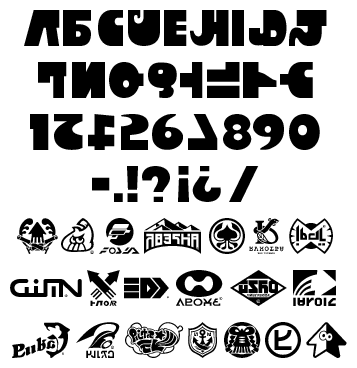
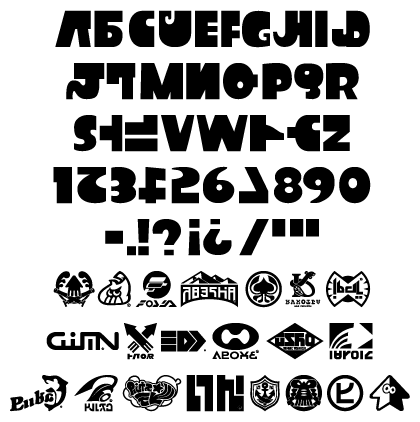
getting ready for v2.0 update

diff --git a/inkling_new.html b/inkling_new.html
@@ -114,20 +114,18 @@ $(document).ready(function(){
 
 <body>
 
-<h1>INKLING </h1><h2>VERSION 1.0</h2><br>
+<h1>INKLING </h1><h2 style="color:#0fc3b8;">VERSION 2.0 (new!)</h2><br>
 <h4>created by eli</h4>
 
 <div style="position:absolute; right:50px; top:25px;">
-<img src="inkling_old.png">
+<img src="inkling.png">
 </div>
 
 <span style="display:none;">スプラトゥーン フォント インクイング</span>
 
-<center style="color:#0fc3b8;"><h2>Version 2.0 coming this week!</h2></center>
-
 <p><i>Inkling</i>, a font created from characters that appear in the game <i>Splatoon</i>—seen on Sunken Scrolls, in Octo Valley, written on in-game gear, etc.</p>
 
-<div style="text-align:center; margin:-10px 0;"><img src="preview_old.png"><br>
+<div style="text-align:center; margin:-10px 0;"><img src="preview.png"><br>
 	<h4 style="color:#0fc3b8;">DOWNLOAD BELOW!</h4></div>
 
 <p><b>17</b> distinct alphabetical glyphs (excluding rotations/mirrored versions) of this writing system have been seen in-game so far. I've vectorized and mapped each character to its closest English (Latin alphabet) equivalent, when possible, so typing English words in this font will lead to somewhat readable text. Unfortunately, Inkling is essentially gibberish—in-game Inkling text cannot be translated and in most cases has no meaning (i.e. the choice of which glyph goes to which character in this font was completely arbitrary, but made to expedite being able to type the characters you want.)<br><br>
@@ -176,7 +174,7 @@ All other Unicode characters not listed above.
 <div style="margin-left:15px">Typing currently unavailable characters in Josephine or Project Paintball (download link below) will give you a good, similar result, if you're trying to write blocks of text or sentences without random spaces in them. :)<br><br>
 <i><b>*NOTE:</b> I plan to release an extended version soon with all missing characters and punctuation (non-official) added, for usability.</i></div> -->
 <p style="margin-top: -25px;">&nbsp;
-<div class="teal" style="padding: 5px 15px;"><b>Version 2.0 changelog (coming soon):</b></div>
+<div class="teal" style="padding: 5px 15px;"><b>Version 2.0 changelog:</b></div>
 
 <ul>
 <li>Added all missing letters and numbers, borrowing from Project Paintball (traced in-game font)</li>
@@ -221,7 +219,6 @@ The wakaba logo found on the back of the Basic Tee is mapped to <tt>&reg;</tt>.
 
 <p style="padding-top:10px;"><i>Existing issues:</i>
 <ul>
-<li>The <tt>y</tt> and <tt>c</tt> glyphs may sometimes appear broken in certain orientations.</li>
 <li>When installing the font via Font Book on Mac computers, a warning may appear that the 'name' table structure is incorrect. You may safely ignore this.</li>
 </ul></p>
 
@@ -229,6 +226,8 @@ The wakaba logo found on the back of the Basic Tee is mapped to <tt>&reg;</tt>.
 <ul>
 	<li>The folks at SquidBoards in <a href="http://squidboards.com/threads/inkling-the-language-of-splatoon.195/">this thread</a>, for helping figure out if the language was decipherable and discussing the language in-depth.</li>
 	<li><a href="http://vectorfriend.imgur.com/">Vectorfriend</a> from <a href="http://splatoon.ink/ink">/ink/</a>, many of whose vectorized brand logos can be found in this font.</li>
+	<li>JapanYoshi, for providing a few glyphs from Project Paintball (linked below) for use in this font.</li>
+
 </ul></p>
 
 <p style="padding-top:10px;"><i>Related font projects:</i>
@@ -244,7 +243,7 @@ The wakaba logo found on the back of the Basic Tee is mapped to <tt>&reg;</tt>.
 Please direct any questions to eli (frozenpandaman). Feel free to shoot me a message via <a href="http://reddit.com/u/frozenpandaman">reddit</a> or <a href="mailto:frozenpandaman@gmail.com">email</a>.
 <br>I'd like to see anything you make with this font!<br><br><br>
 
-<div class="download"><h1><a href="Inkling.otf">DOWNLOAD</a></h1></div>
+<div class="download"><h1><a href="Inkling_v2.otf">DOWNLOAD</a></h1></div>
 
 <div style="position:absolute; right:31px; bottom:23px; z-index:-1; text-decoration:none;">
 <img src="download.png">
